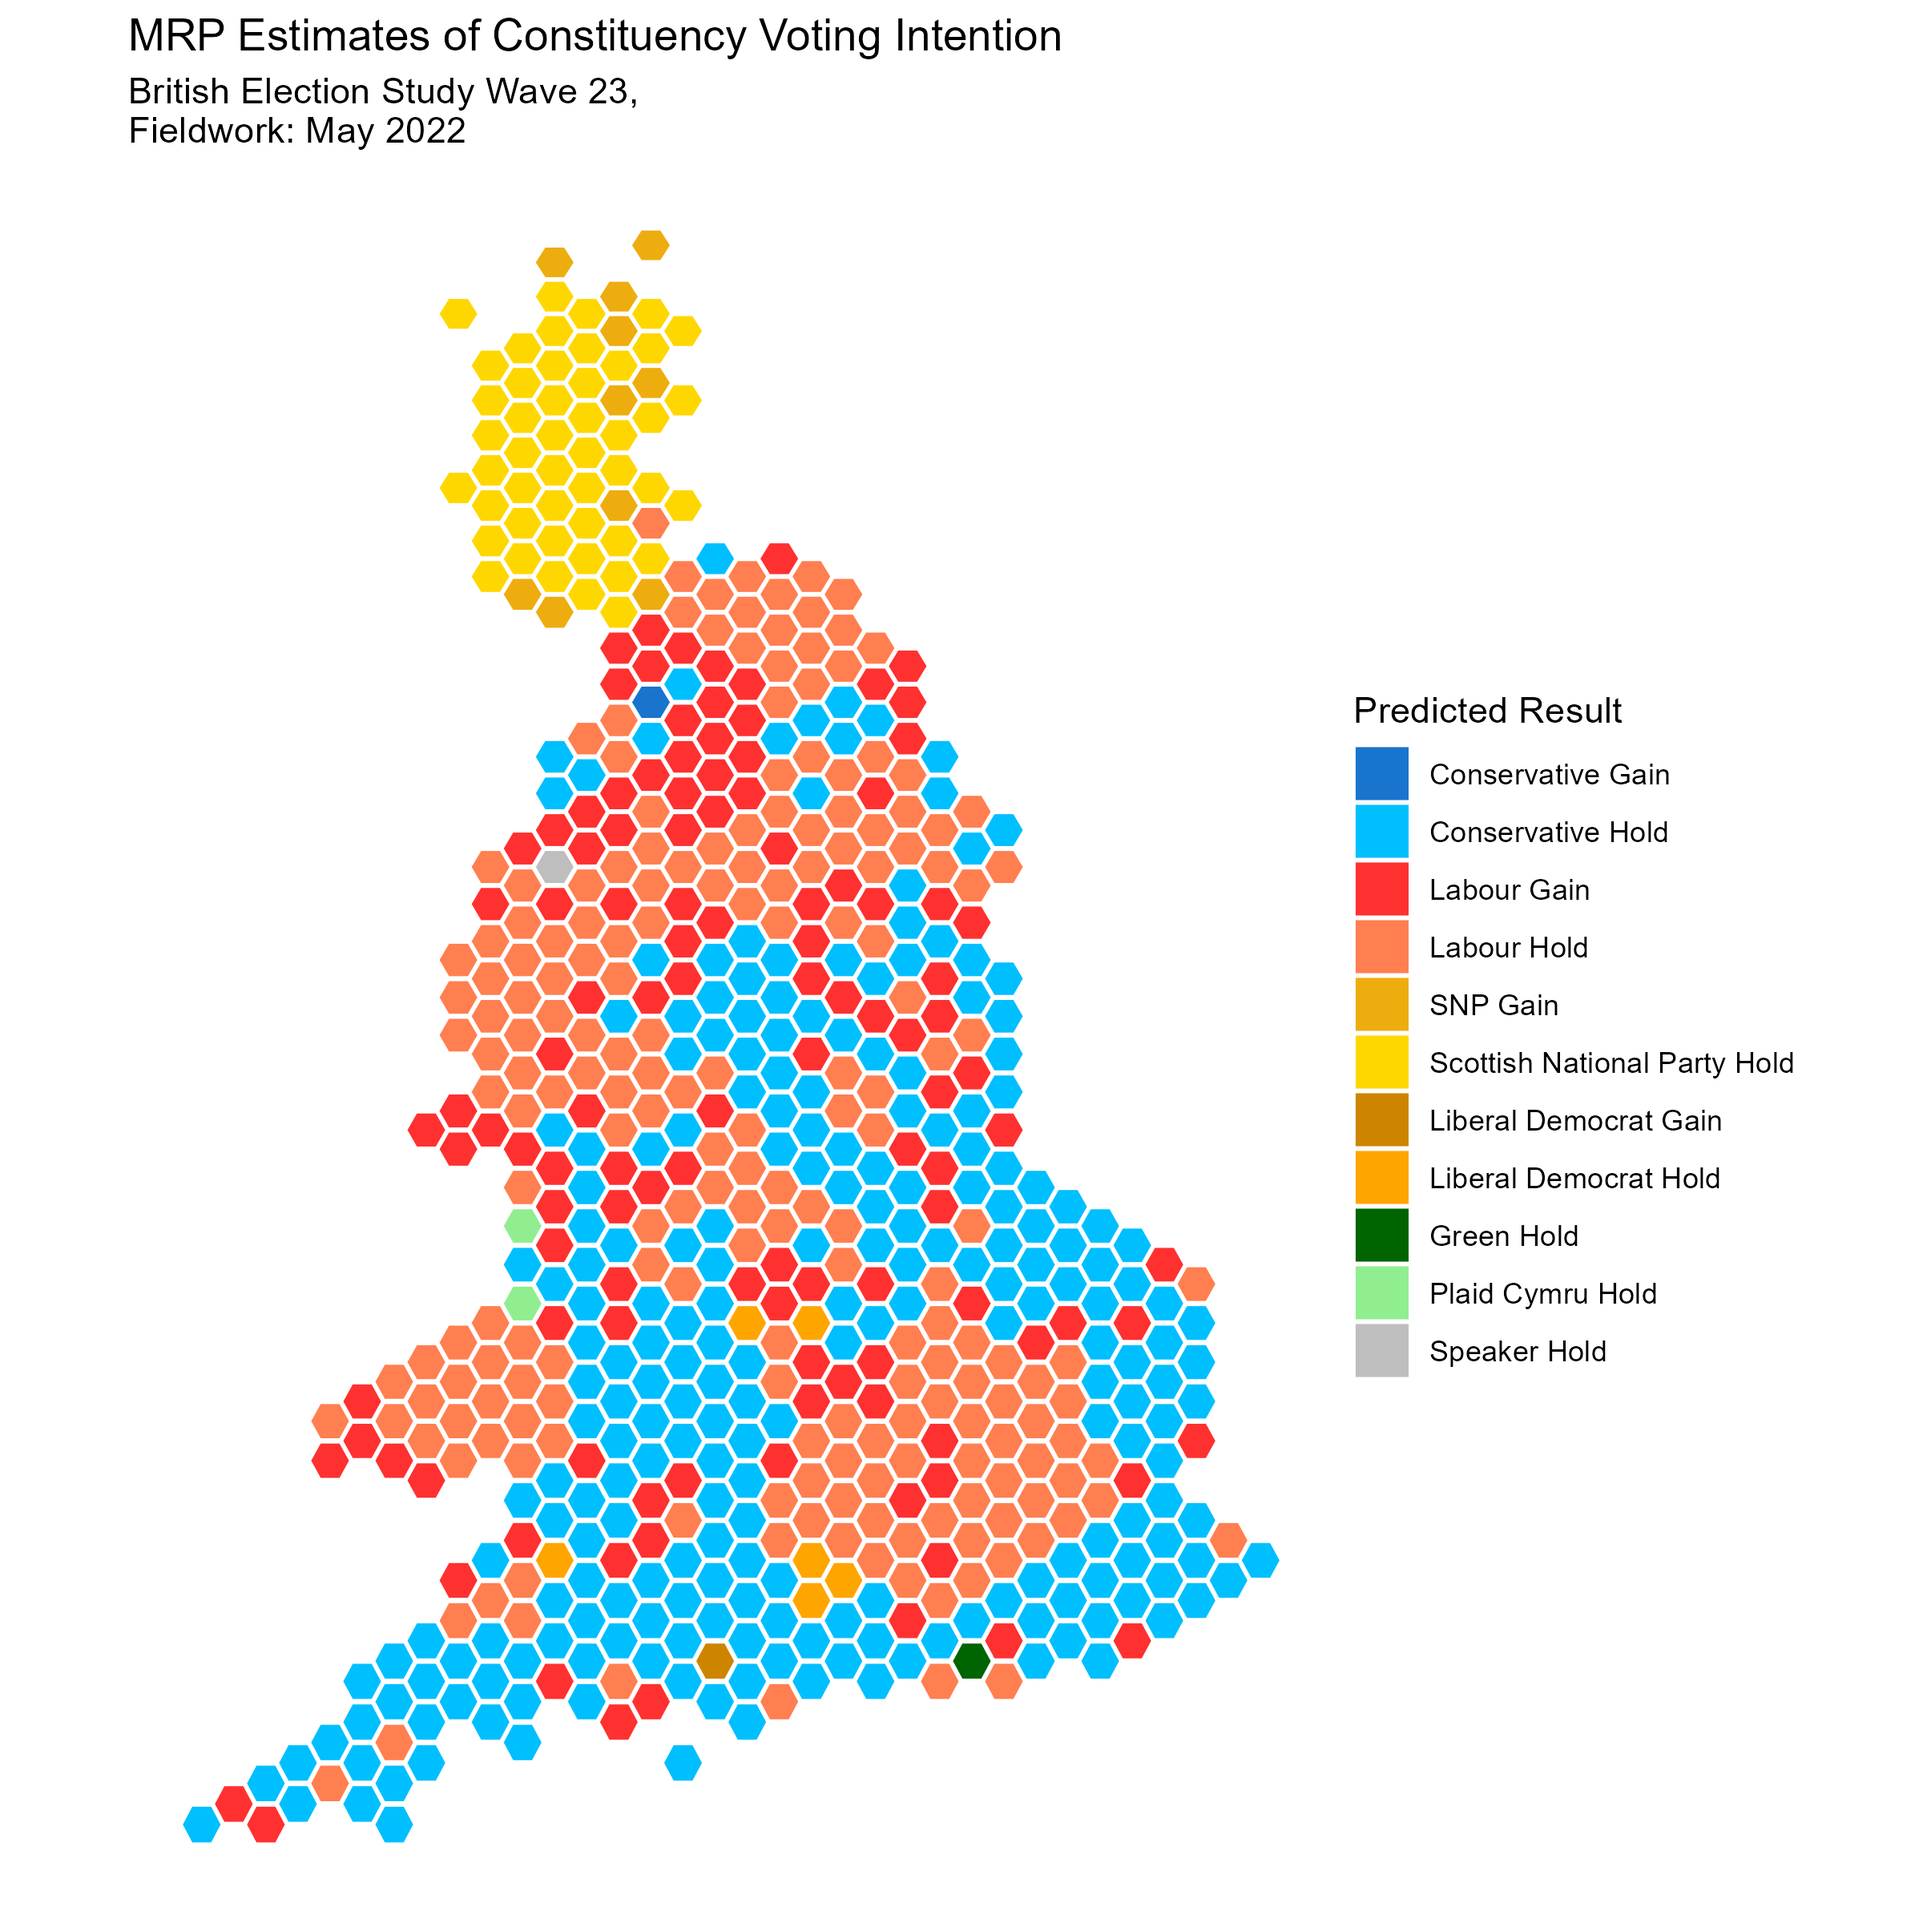
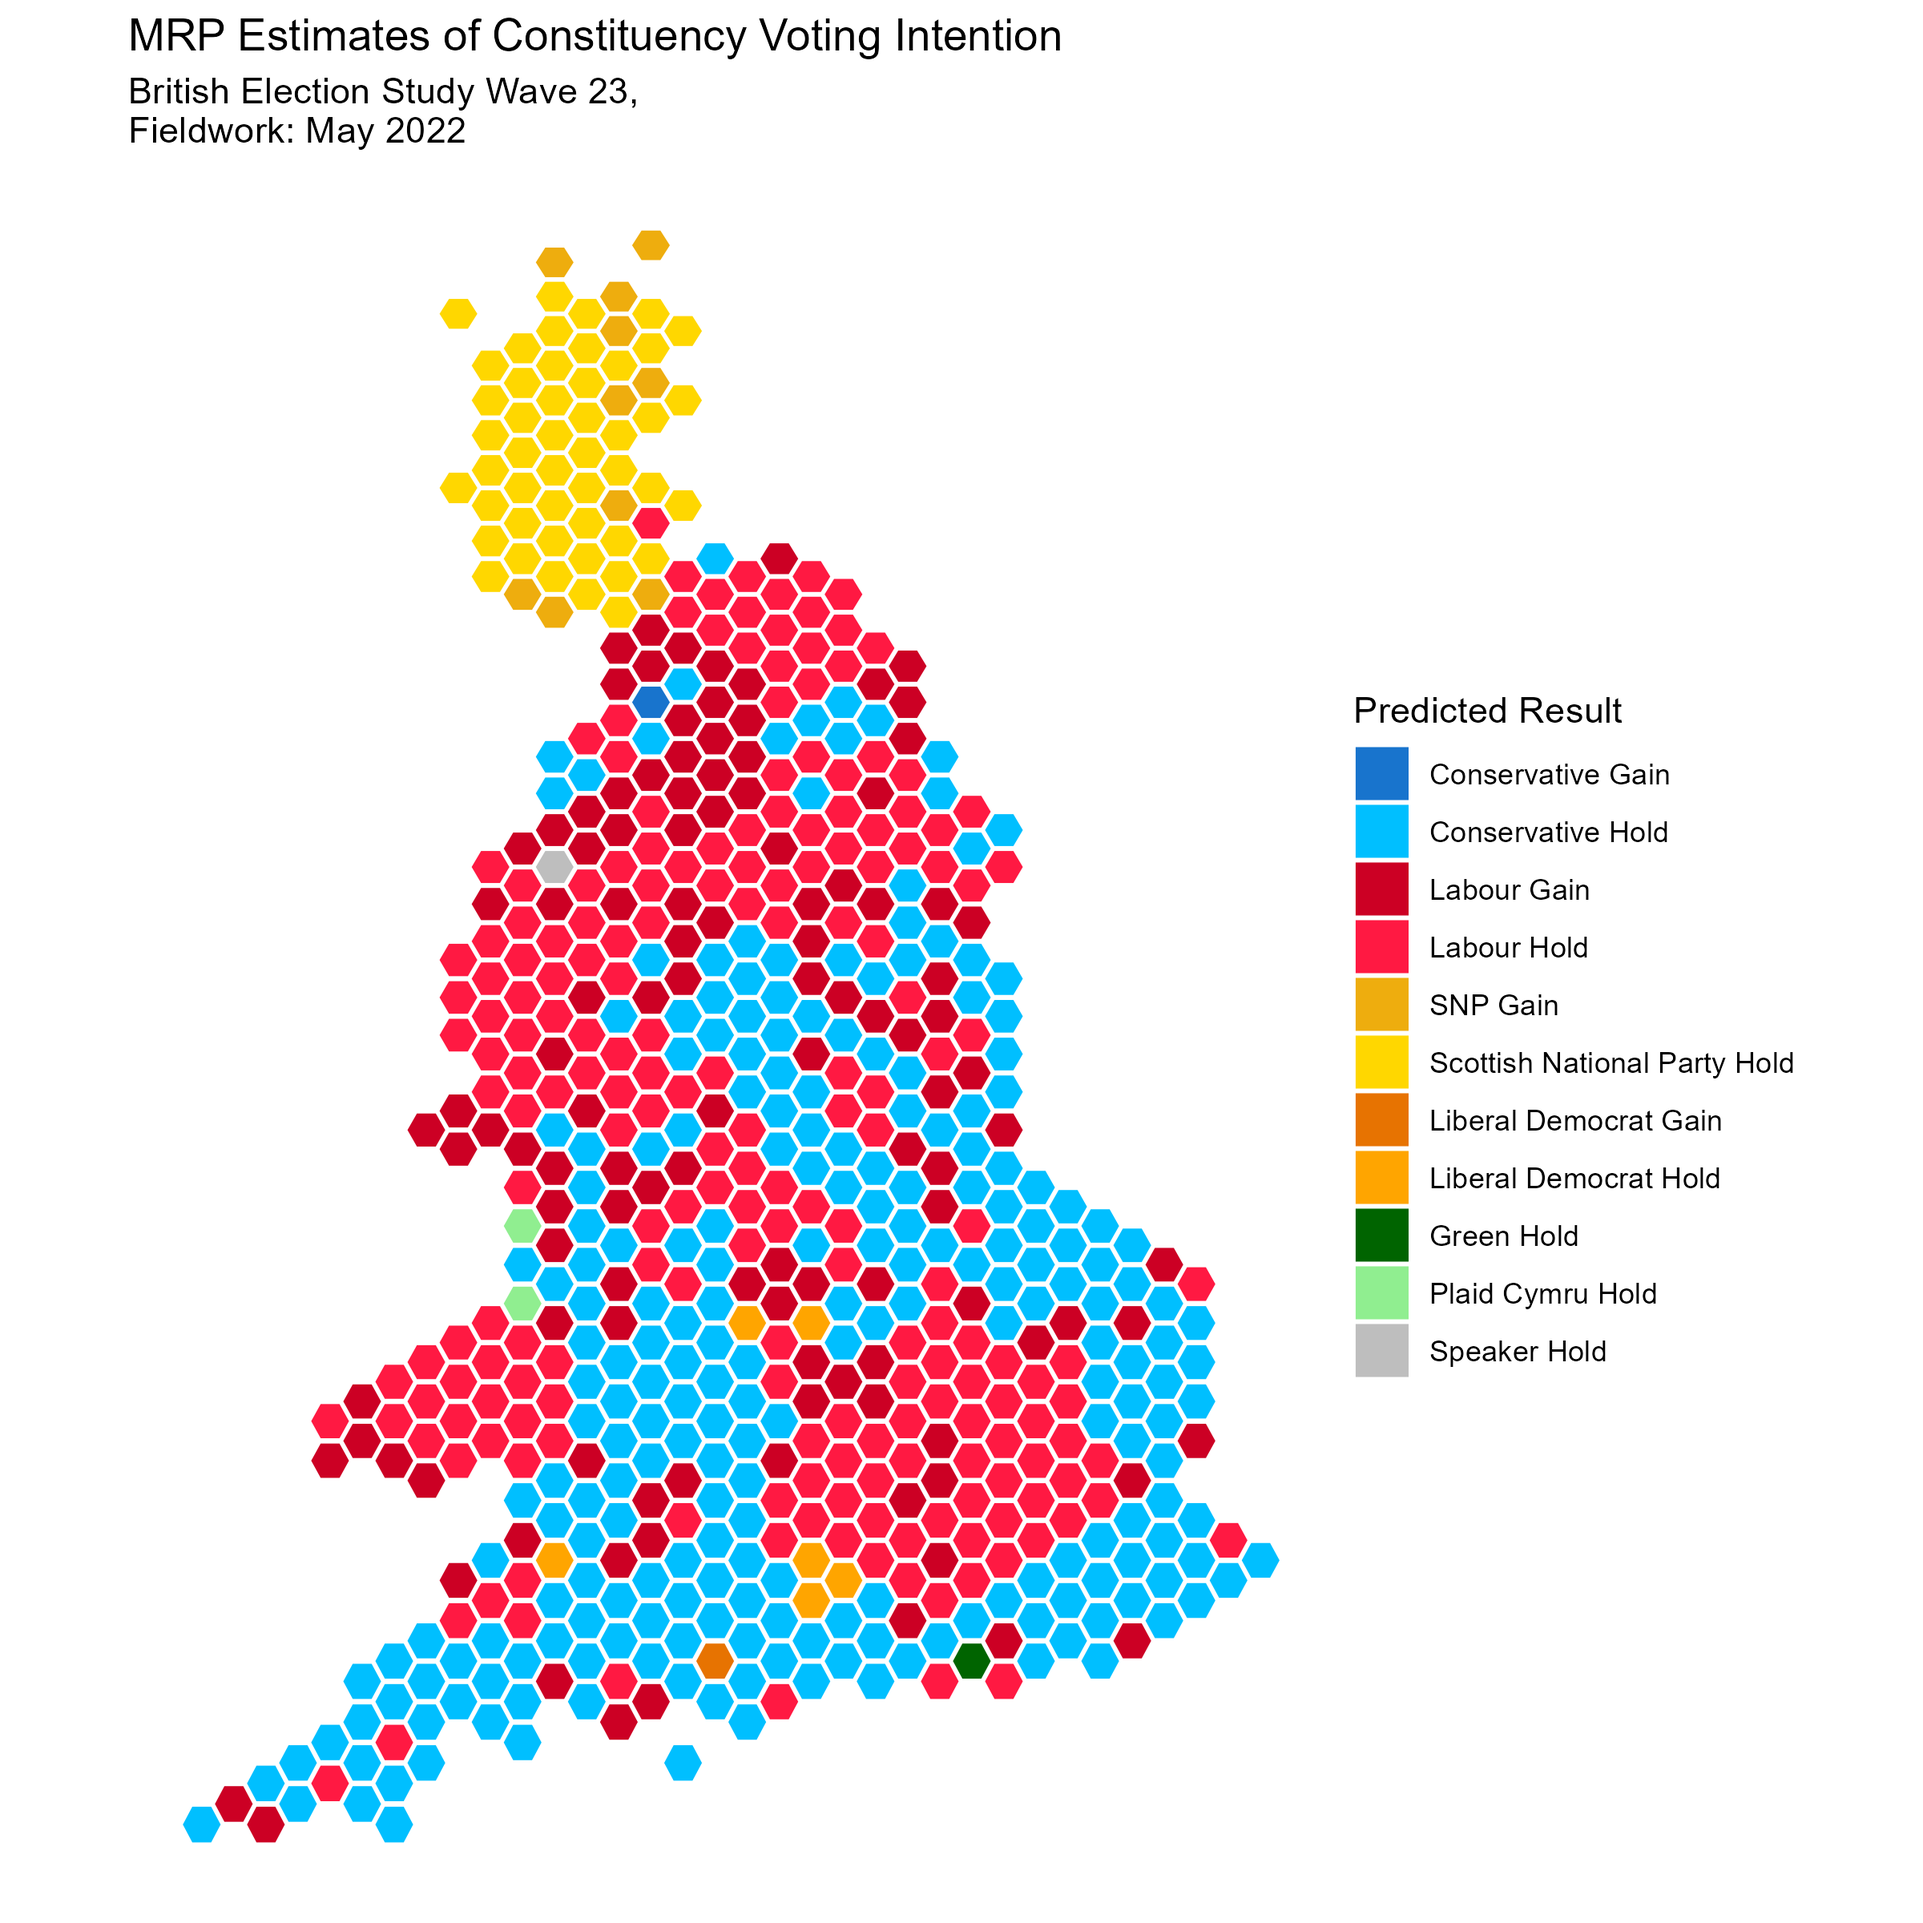
update results

diff --git a/README.md b/README.md
@@ -30,9 +30,9 @@ Differences in attitudes towards Labour and Starmer by age are dramatic. Especia
 
 | Party                  | Vote Intention (%) [95% CI] | MRP Seat Estimate |
 |------------------------|-----------------------------|-------------------|
-| Labour                 | 28.2 [27.6 - 28.8]          | 222               |
-| Conservative           | 22.4 [21.9 - 23.0]          | 341               |
-| SNP                    | 2.9 [2.7 - 3.1]             | 57                |
+| Labour                 | 28.2 [27.6 - 28.8]          | 322               |
+| Conservative           | 22.4 [21.9 - 23.0]          | 240               |
+| SNP                    | 2.9 [2.7 - 3.1]             | 58                |
 | Liberal Democrat       | 7.6 [7.3 - 8.0]             | 7                 |
 | Plaid Cymru            | 0.4 [0.37 - 0.53]           | 2                 |
 | Green Party            | 5.0 [4.7 - 5.2]             | 1                 |
